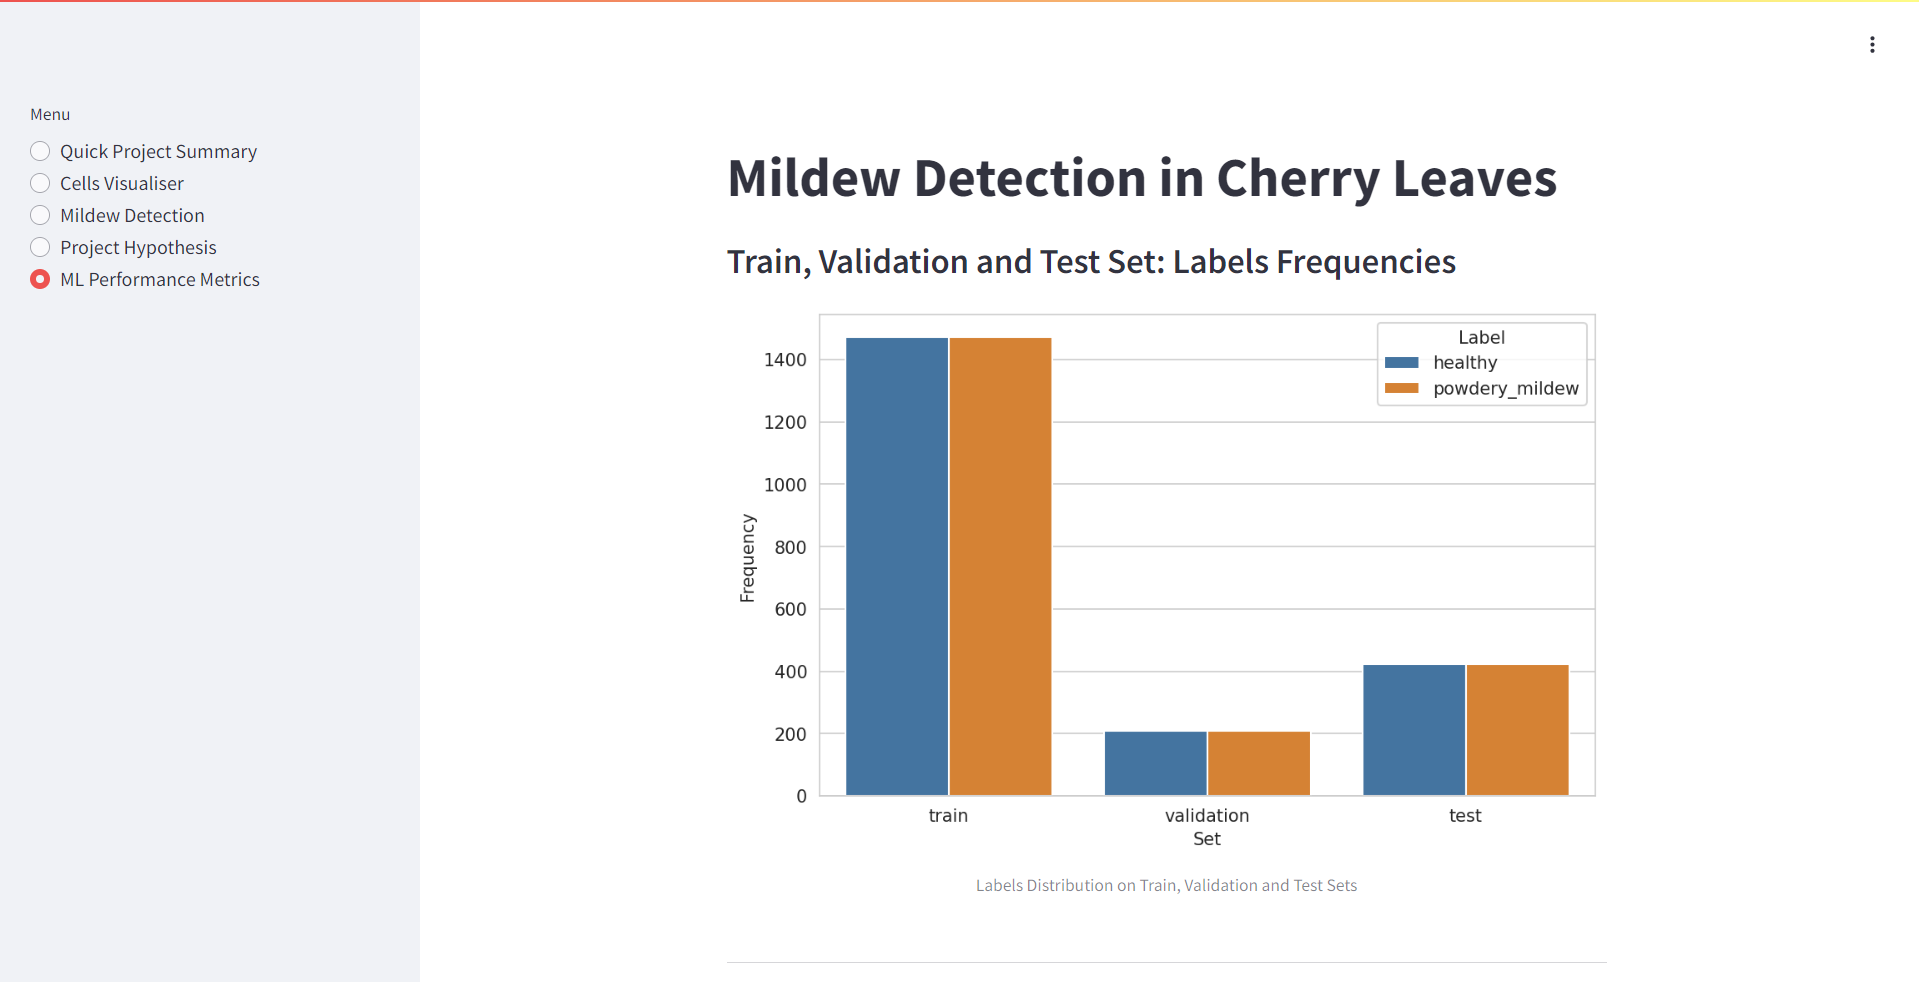
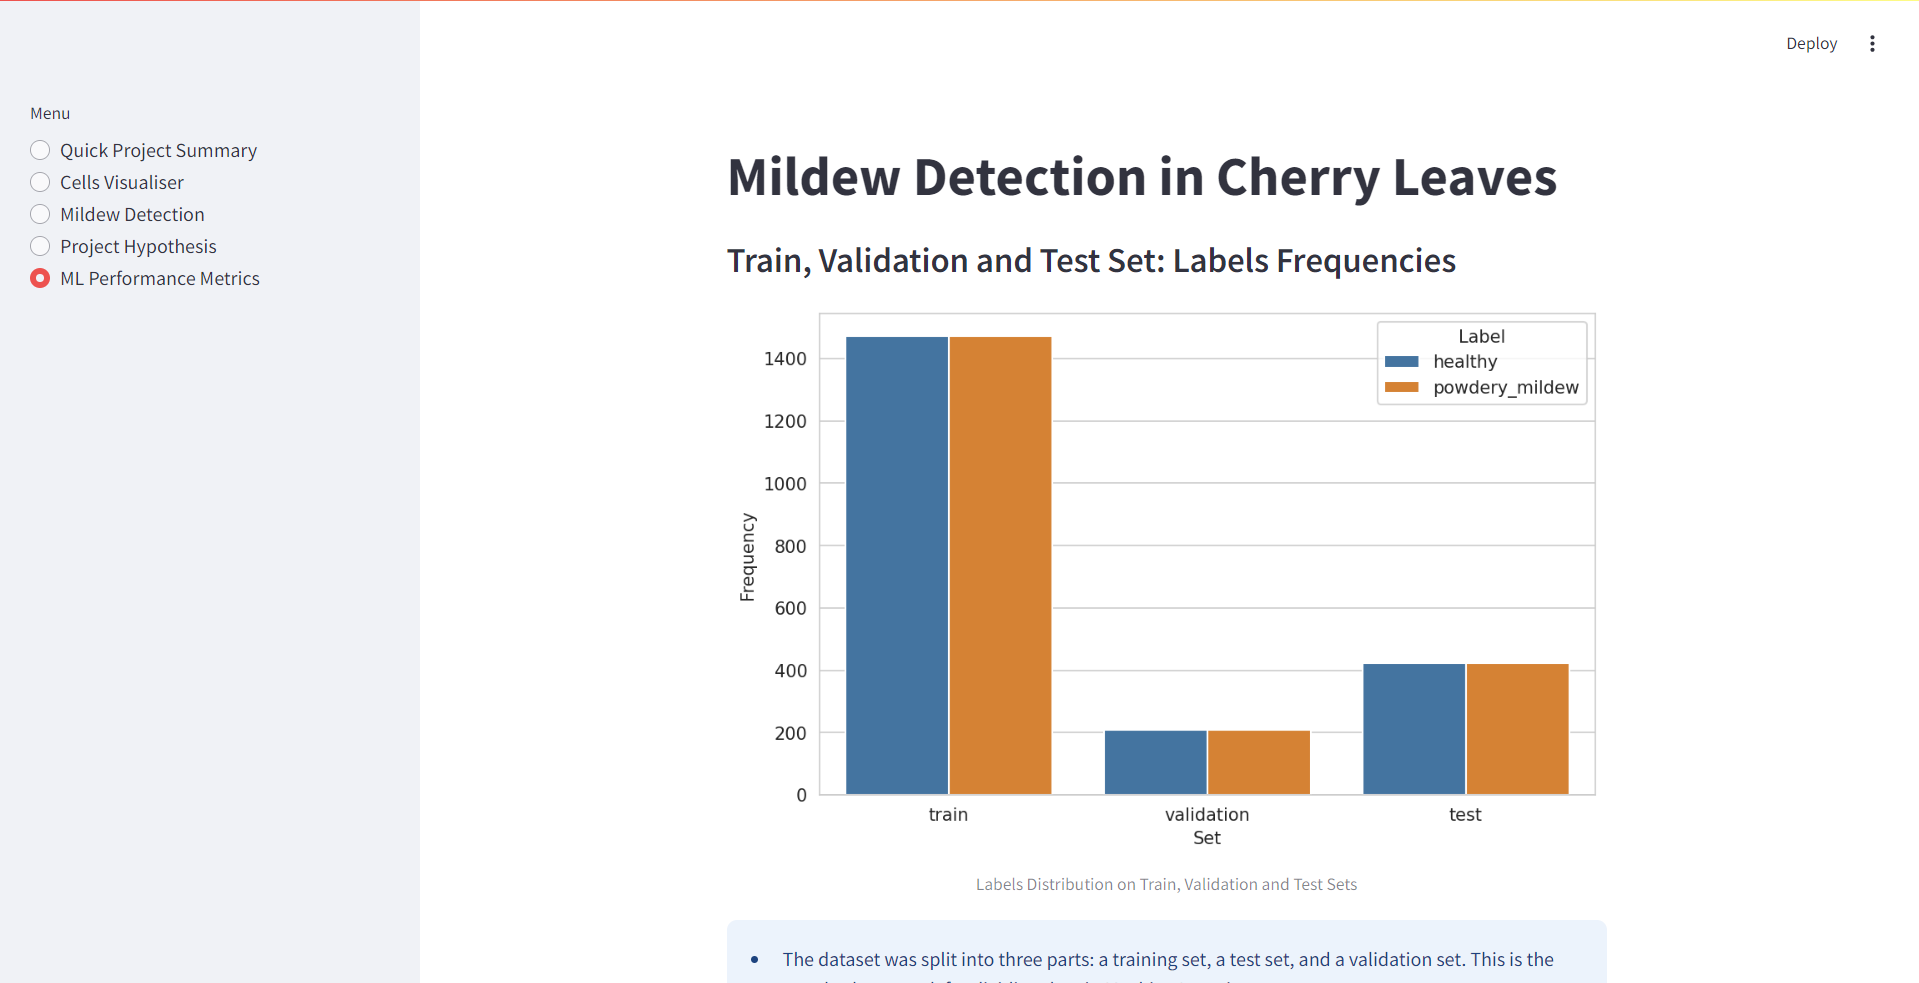
tweaks to README and ml_performance-page.py

diff --git a/app_pages/page_ml_performance.py b/app_pages/page_ml_performance.py
@@ -30,6 +30,20 @@ def ml_performance_metrics():
             'Validation and Test Sets'
         )
     )
+
+    st.info(
+        f"* The dataset was split into three parts: a training set, a test "
+        f"set, and a validation set. This is the standard approach for "
+        f"dividing data in Machine Learning.\n"
+        f"* The training set, being the largest, was the first data the ML "
+        f"model encountered. Its larger size ensures that the model is "
+        f"exposed to enough data to fully learn the distinctions between "
+        f"the two types of images.\n"
+        f"* The validation set was then used to fine-tune the model's "
+        f"performance.\n"
+        f"* Finally, the test set served as the ultimate check to confirm "
+        f"that the model can handle new data and has learned as expected."
+    )
     st.write("---")
 
     st.write("### Model History")
@@ -40,8 +54,28 @@ def ml_performance_metrics():
     with col2:
         model_loss = plt.imread(f"outputs/{version}/model_training_losses.png")
         st.image(model_loss, caption='Model Training Losses')
+    st.info(
+        f"* As shown in the graphs above, the model generally achieved a "
+        f"high level of accuracy.\n"
+        f"* The model's performance on the training set initially improved "
+        f"rapidly. There was a slight dip in performance at epoch 3 however, "
+        f"the model regained accuracy in the following epoch and continued "
+        f"to improve.\n"
+        f"* The loss graph, which measures how closely the model's "
+        f"predictions match the actual outcomes, indicates adequate "
+        f"performance on both the training and validation sets. "
+        f"Additionally, overfitting has been kept to a minimum."
+    )
     st.write("---")
 
     st.write("### Generalised Performance on Test Set")
     st.dataframe(pd.DataFrame(load_test_evaluation(version),
                               index=['Loss', 'Accuracy']))
+    st.info(
+        f"* At the start of the project, the client requested an ML model "
+        f"capable of predicting with 97% accuracy whether a leaf had mildew "
+        f"or not based on its image.\n"
+        f"* As shown in the table above, the model predicted the status of "
+        f"images in the test dataset with 99% accuracy, meaning this "
+        f"requirement has been successfully met."
+    )

diff --git a/README.md b/README.md
@@ -130,7 +130,9 @@ The current method of manually inspecting cherry trees for signs of powdery mild
 
 ### Cells Visualiser
 
-This will satisfy business requirement 1
+This will satisfy business requirement 1:
+
+*The client is interested in conducting a study to visually differentiate a healthy cherry leaf from one with powdery mildew.*
 
 - Checkbox 1 - Difference between average and variability image
 - Checkbox 2 - Differences between average parasitised and average uninfected cells
@@ -142,7 +144,15 @@ This will satisfy business requirement 1
 
 ### Mildew Detection
 
-This will satisfy business requirement 2, the ML system should predict whether a cherry leaf is healthy or infected with powdery mildew.
+This will satisfy business requirement 2:
+
+*The client is interested in predicting if a cherry leaf is healthy or contains powdery mildew.*
+
+It also contains:
+
+- Link to the Kaggle dataset
+- Facility to upload images for analyis
+- Link to download the generated report
 
 ![Mildew Detection 1](assets/mildew_detection_1.png)
 ![Mildew Detection 2](assets/mildew_detection_2.png)
@@ -156,6 +166,10 @@ Project hypothesis along with conclusions and validation methods.
 ![Project Hypothesis](assets/project_hypothesis.png)
 
 ### ML Performance Metrics
+
+This page presents the findings from our analysis. It details how the dataset was utilized for testing and outlines the results of the ML model training. Visuals are included to illustrate the model's accuracy and loss on both the training and validation sets. Additionally, the page highlights the model's performance on the test set post-training and discusses its implications for the business requirements.
+
+The images show:
 
 - Label Frequencies for Train, Validation and Test Sets
 - Model History - Accuracy and Losses
